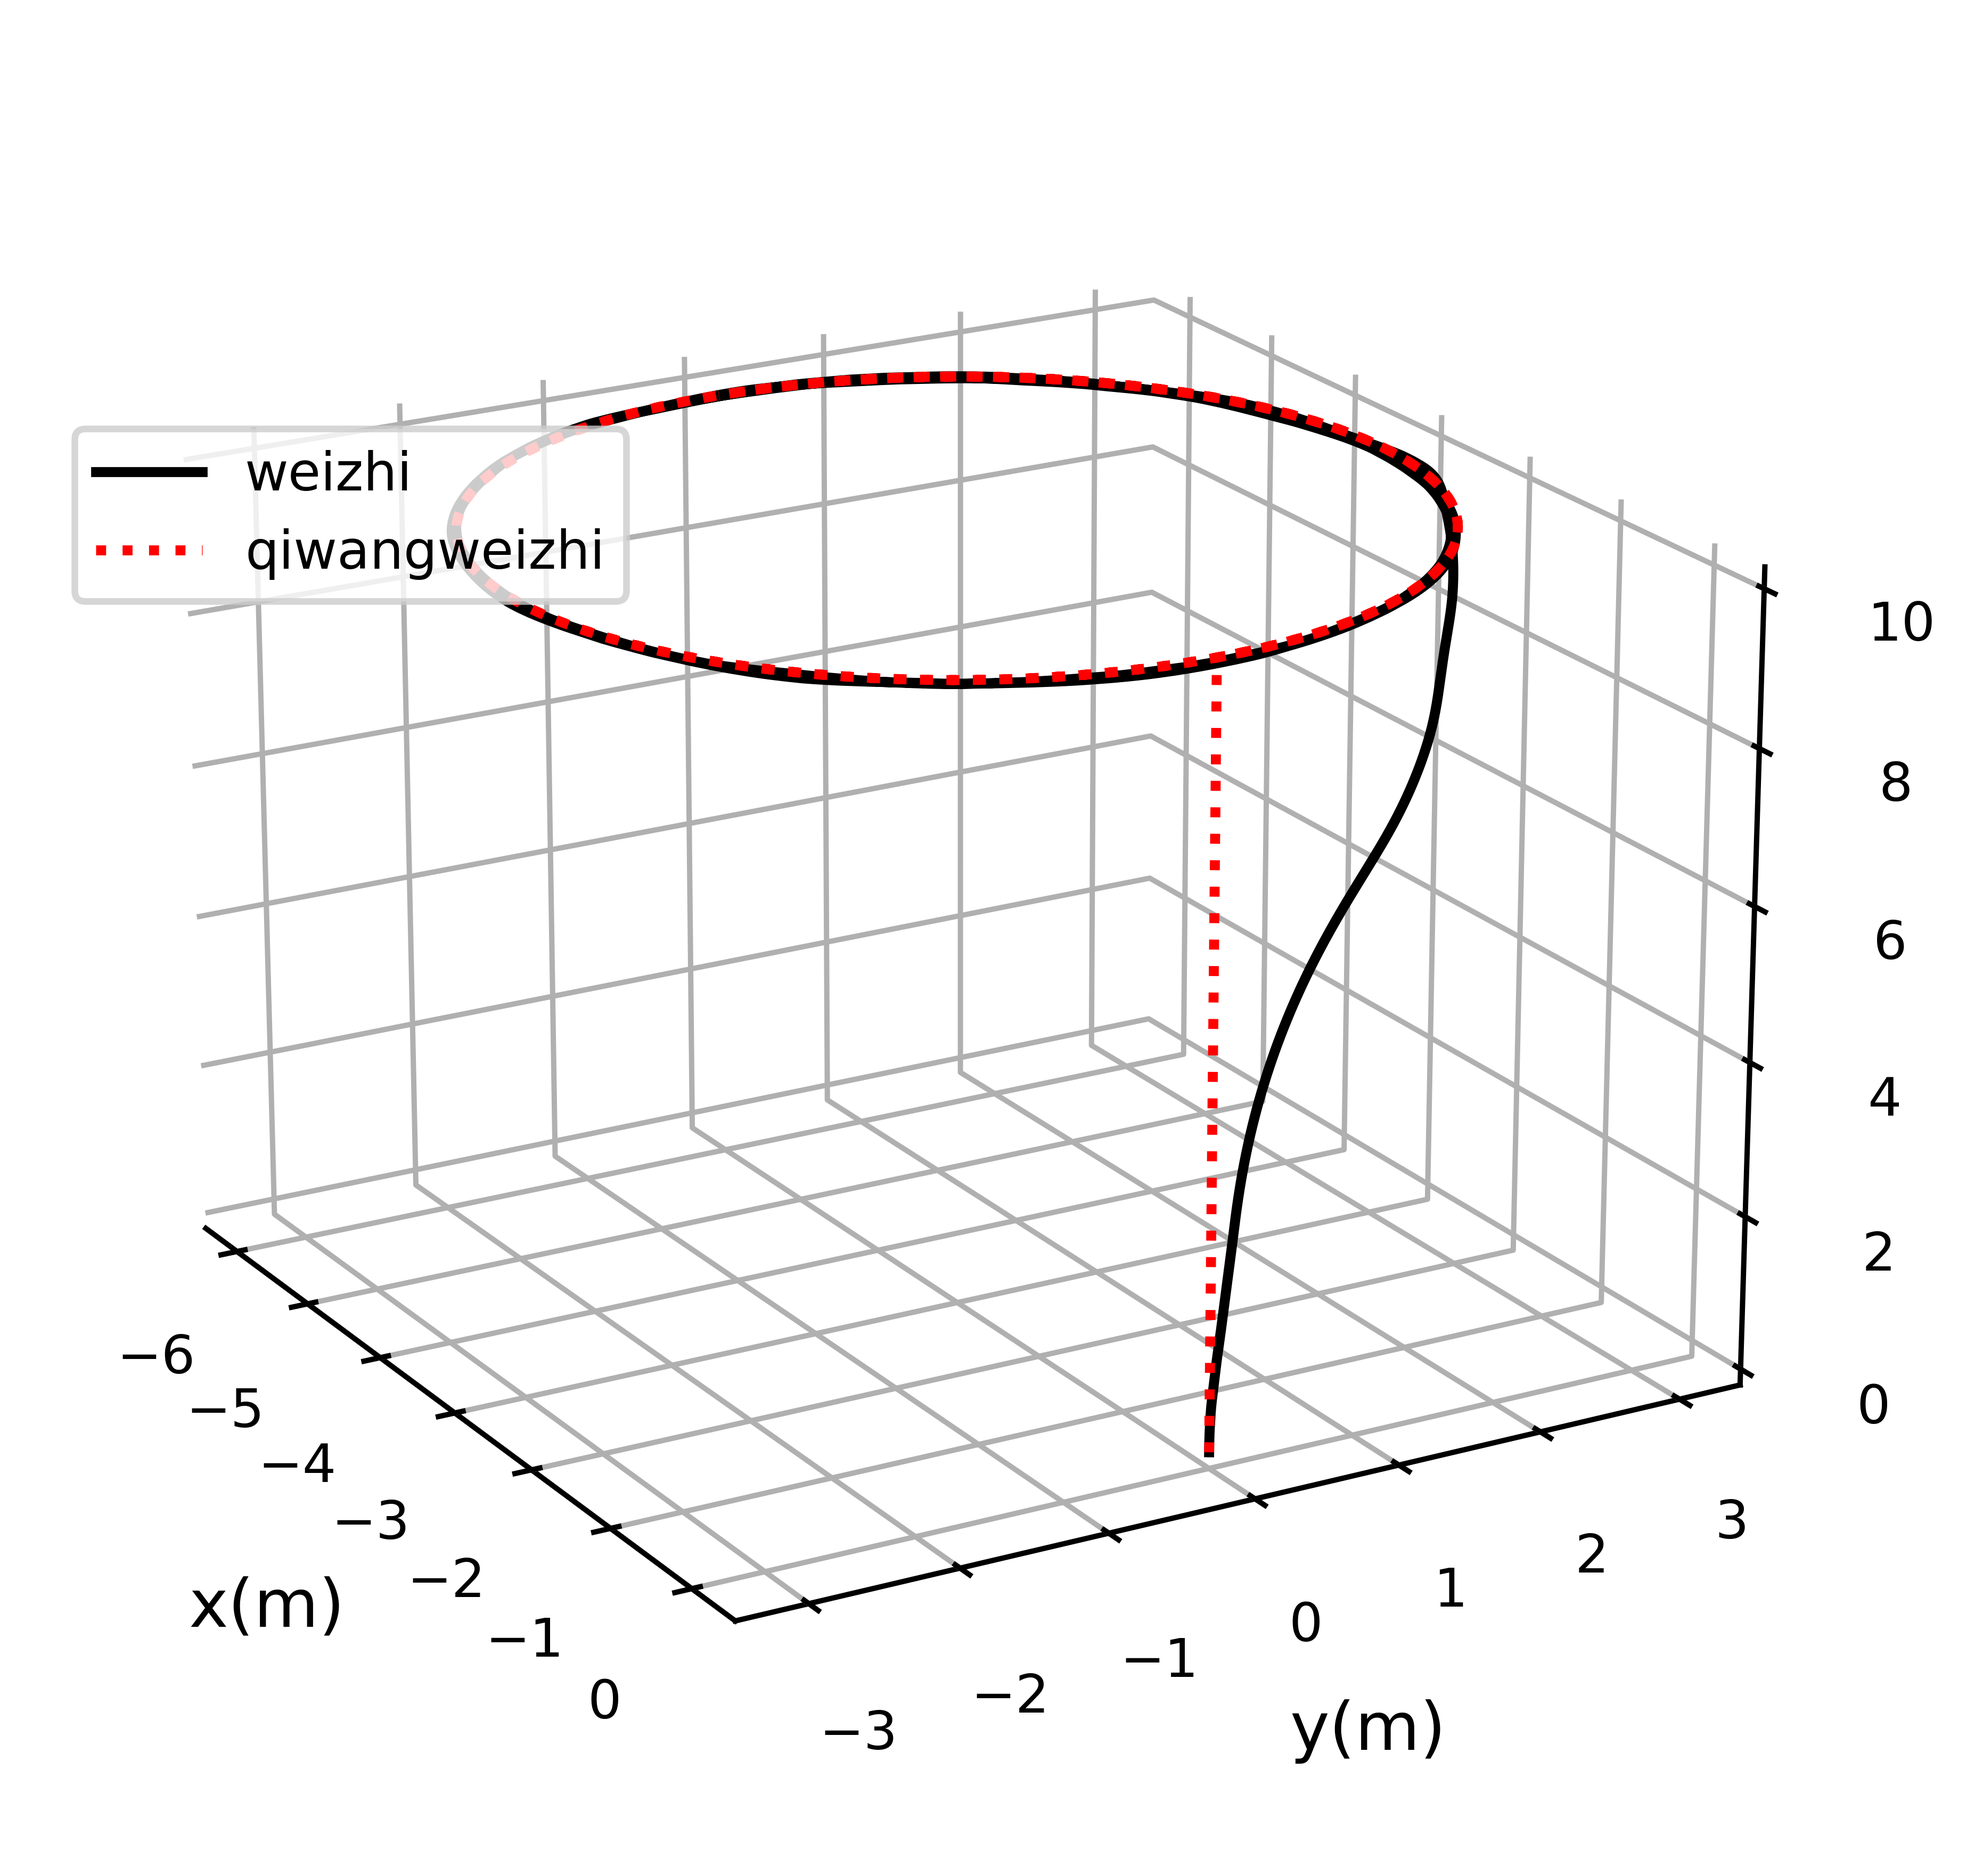
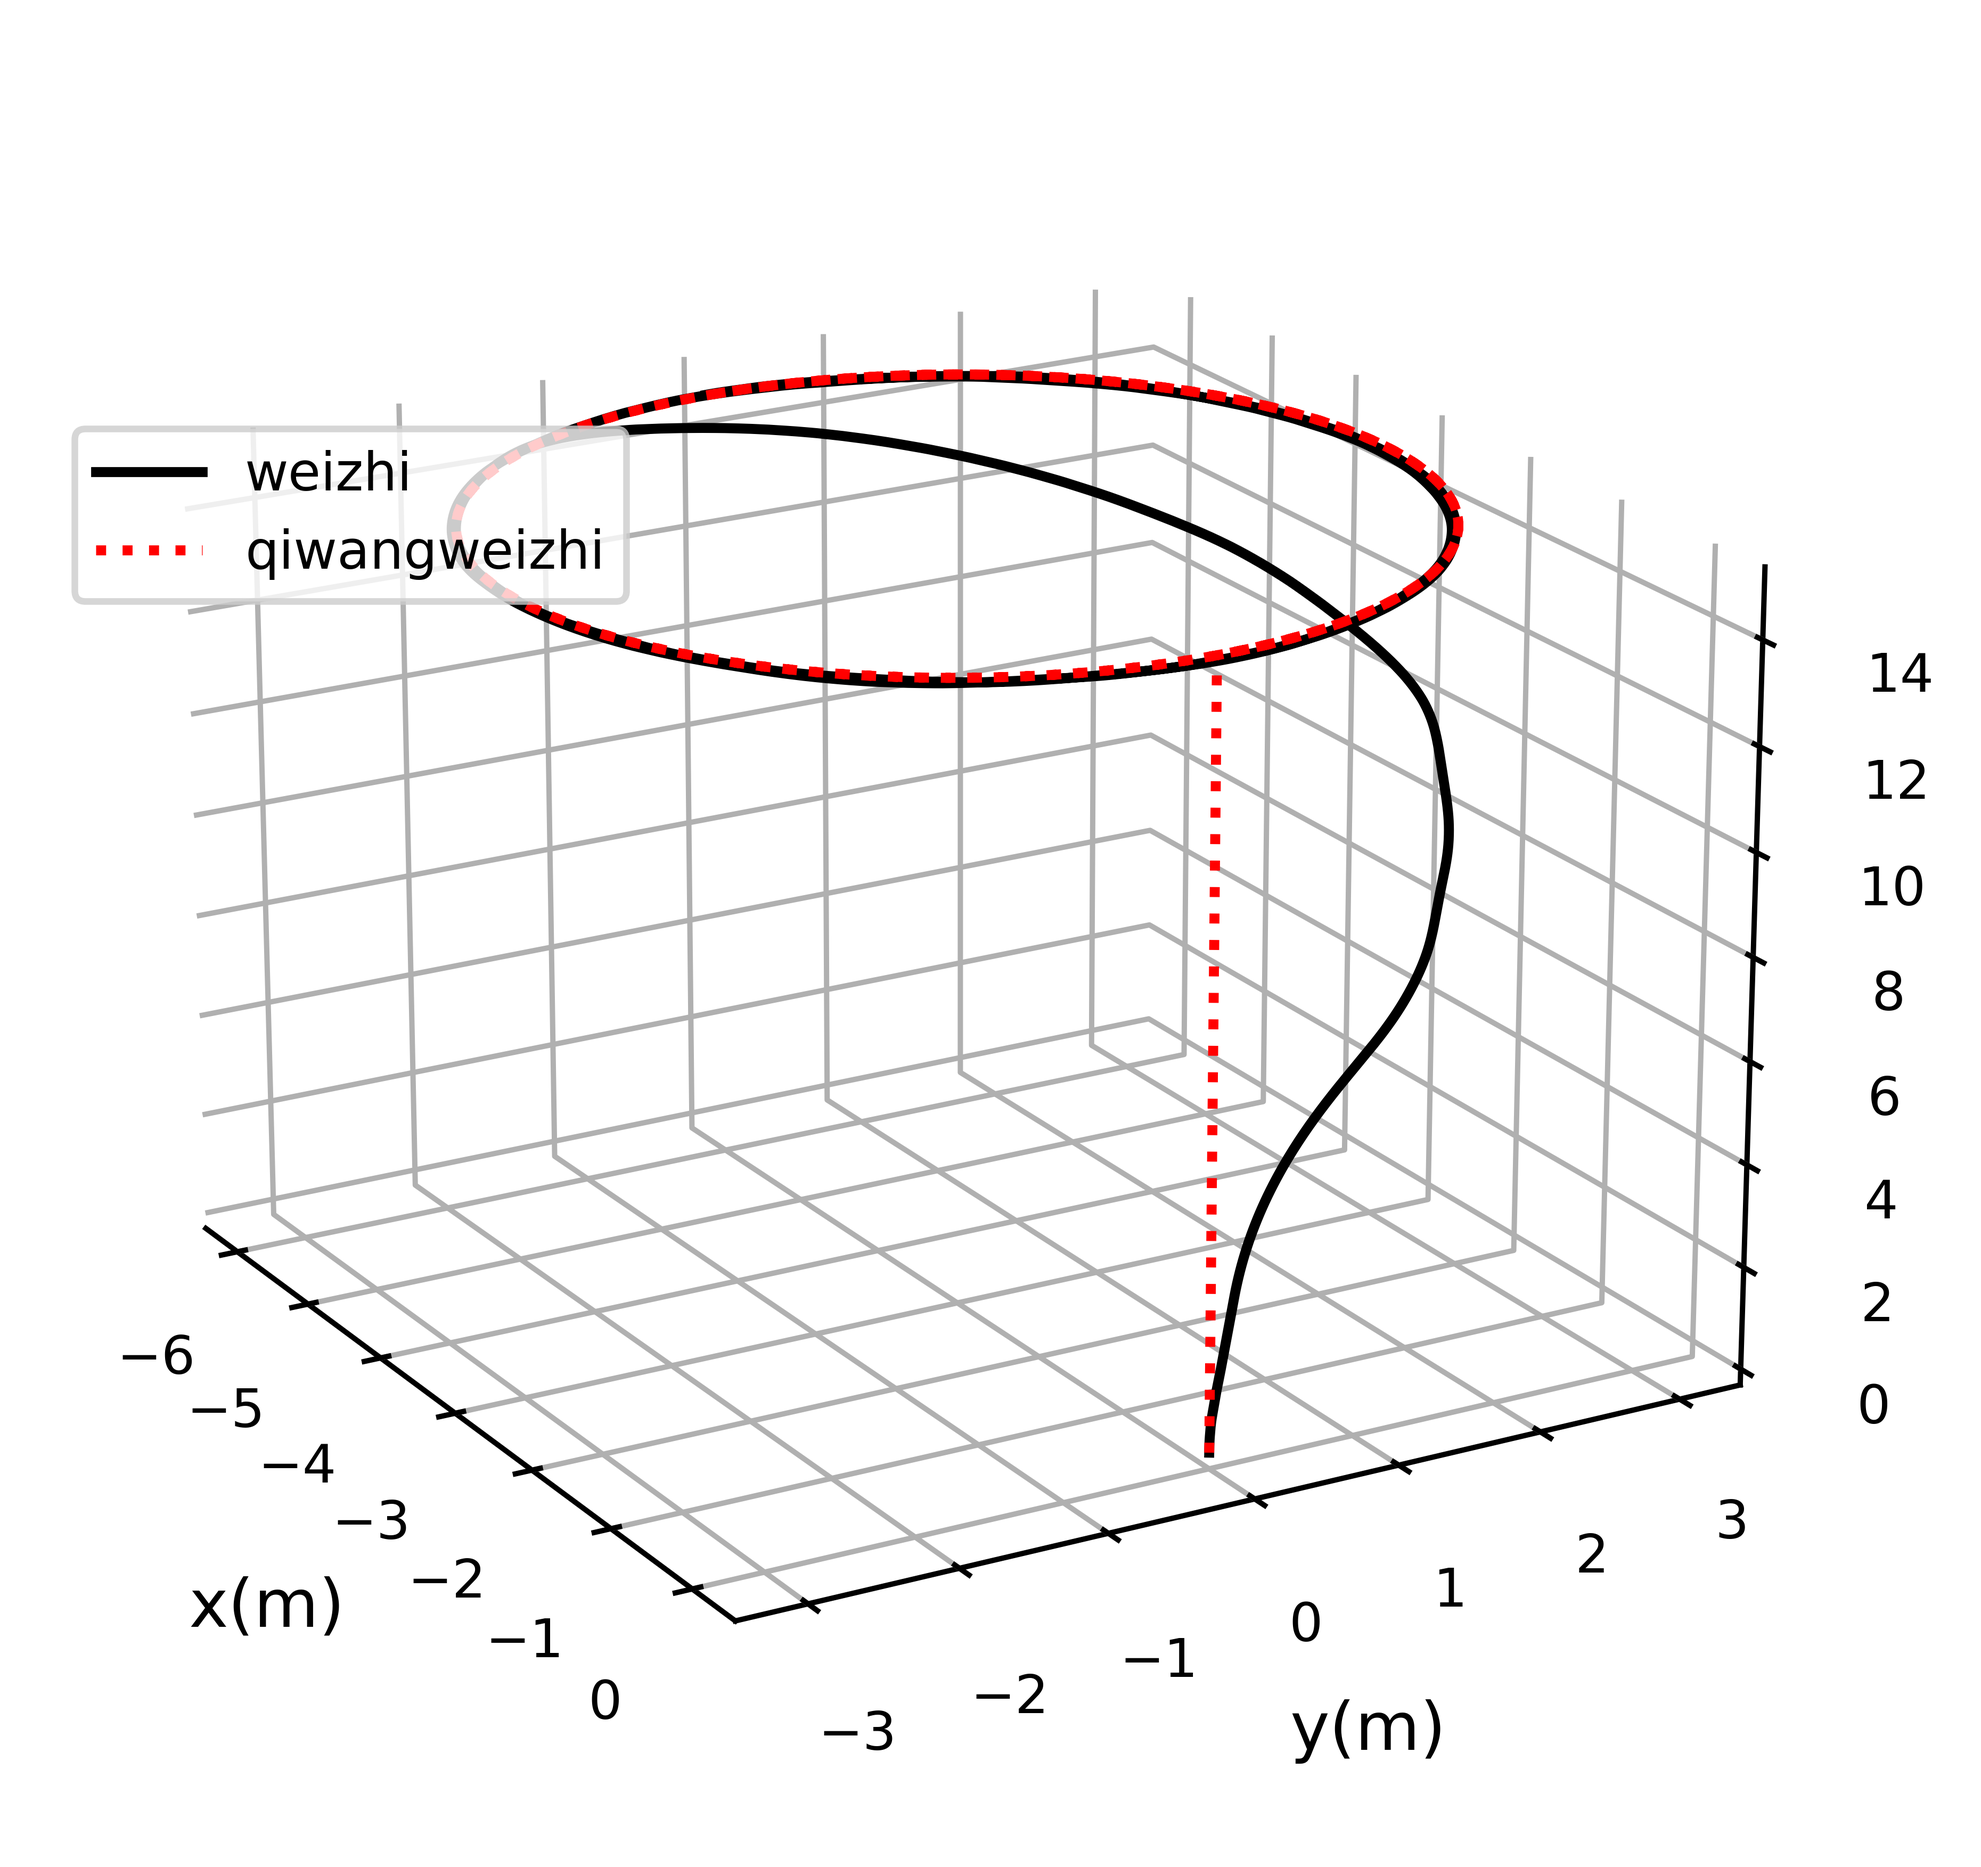
My feature01 (#1)
* 22

* 更改轨迹高度

* 修改了轨迹高度到3

diff --git a/controllers/euler_controller.py b/controllers/euler_controller.py
@@ -210,15 +210,16 @@ class EulerController:
         :param t: Current time.
         :return: The desired position.
         """
-        x_des_now = np.sin(t * np.pi / 10) + 2
-        y_des_now = np.cos(t * np.pi / 10) + 2
-        z_des_now = 10
+        r=3
+        x_des_now = r * math.cos(2 * math.pi/20 * (t))-r
+        y_des_now = r * math.sin(2 * math.pi / 20*(t))
+        z_des_now = 3
         # x_des_now = t
         # y_des_now = t
         # z_des_now = 10
-        r=3
+        
         position_des_now = np.array([x_des_now, y_des_now, z_des_now])
-        position_des_now = (r * math.cos(2 * math.pi/20 * (t))-r, r * math.sin(2 * math.pi / 20*(t)),10)
+        # position_des_now = (r * math.cos(2 * math.pi/20 * (t))-r, r * math.sin(2 * math.pi / 20*(t)),10)
         return position_des_now
 
     def jisuan_error(self,measurement,des_position):
